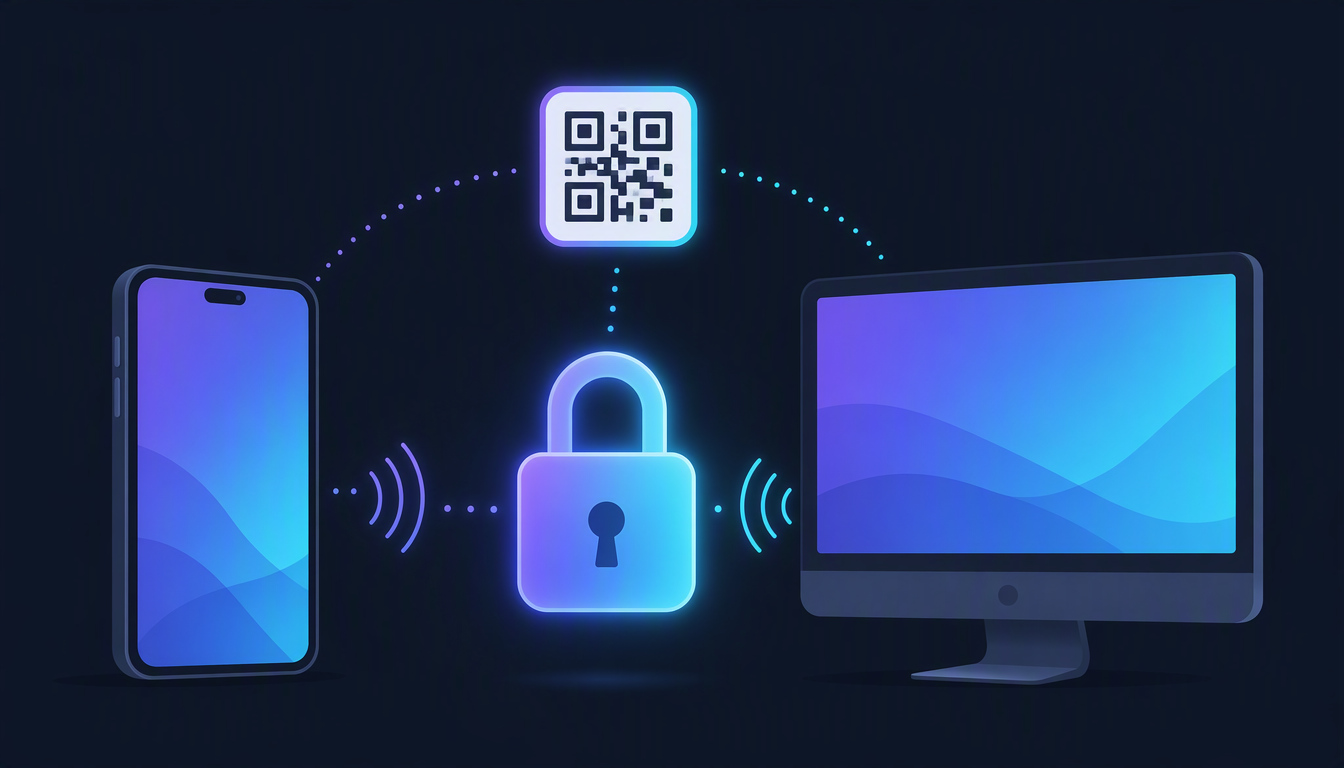
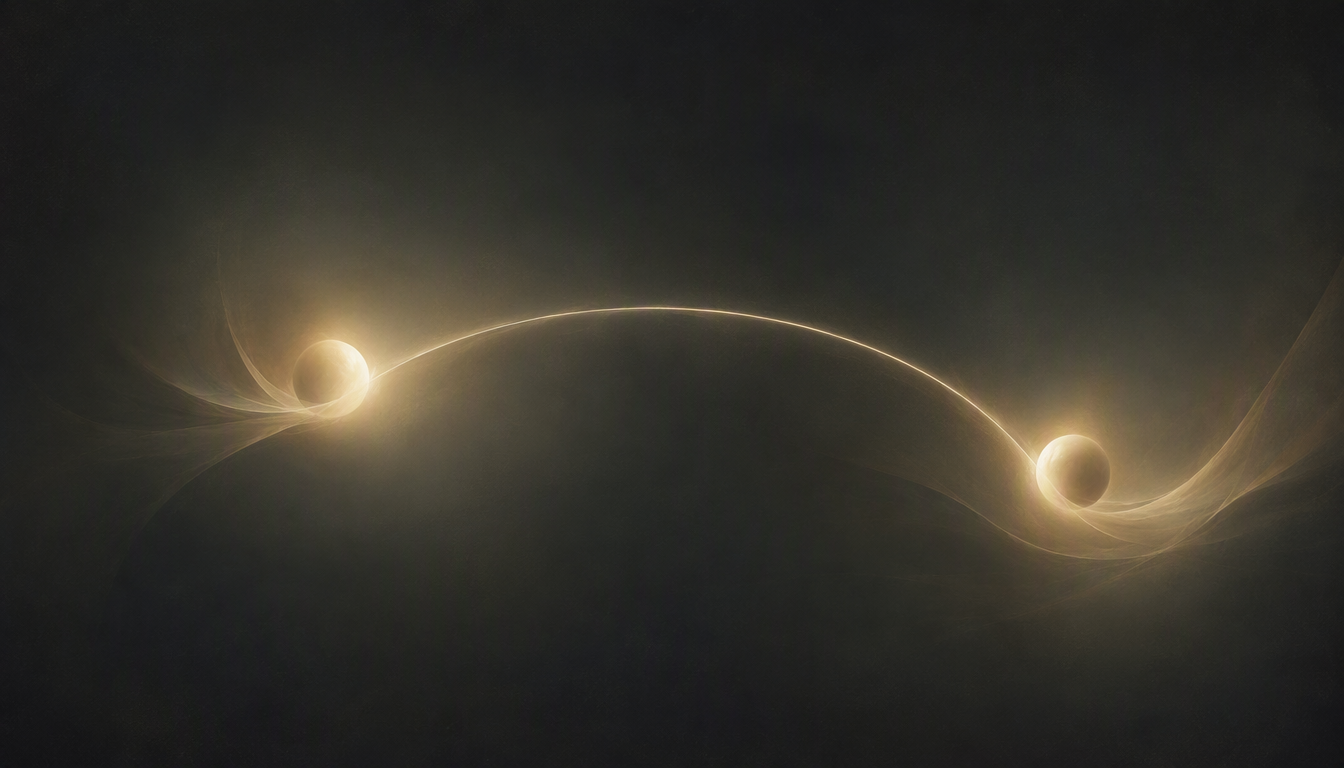
blog: replace cartoon covers with abstract fine-art, drop the gRPC body figure
The first cover set read too cute/robotic for the tone of the writing.
Regenerate all five covers as abstract minimalist fine-art — flowing
organic forms, muted gradients, film grain, generous negative space — with
no text and no mascots, each alluding to its post: radiating strands
(gRPC), two orbs joined by an arc (E2EE), a self-folding ribbon (loop),
a receding luminous grid (tiling), layered sheets converging to a core
(compaction).

Also remove the side-by-side topology illustration from the gRPC article:
it was decorative rather than informative, and the prose already carries
the contrast. Drop the now-unused assets/grpc/ figure.

diff --git a/blog/posts/2026-09-25-why-grpc-not-acp.md b/blog/posts/2026-09-25-why-grpc-not-acp.md
@@ -44,9 +44,6 @@ ACP is point-to-point. One editor, one agent subprocess. There's no notion in th
 
 FutureOS is the opposite topology. The agent is a long-lived, per-user daemon that owns all the state — sessions on disk, the JSONL journals, model config, the cost ledger. The desktop is one *client* of that daemon; the TUI, the Feishu/DingTalk bridge, and the CLI are its peers, all connected at once. A session you started in the terminal can be watched from the desktop and steered from a chat message.
 
-![Two topologies: one agent serving many clients (left) versus a single editor owning an agent subprocess (right)](../assets/grpc/topology.png)
-*Left, our shape — one agent, many concurrent clients. Right, ACP's shape — one editor owning one agent subprocess.*
-
 That needs fan-out: the agent emits a `text_chunk` once and every attached client sees it. A gRPC service gives us this for free — any number of clients open `StreamEvents` and the server multiplexes the same event stream to all of them. ACP has nothing here; you'd have to build a brokered pub/sub layer on top of it yourself, at which point you've reinvented the part gRPC already solved and bolted it onto a protocol that assumed a single consumer.
 
 ## Reason two: gRPC's streaming is mature, ACP's isn't
